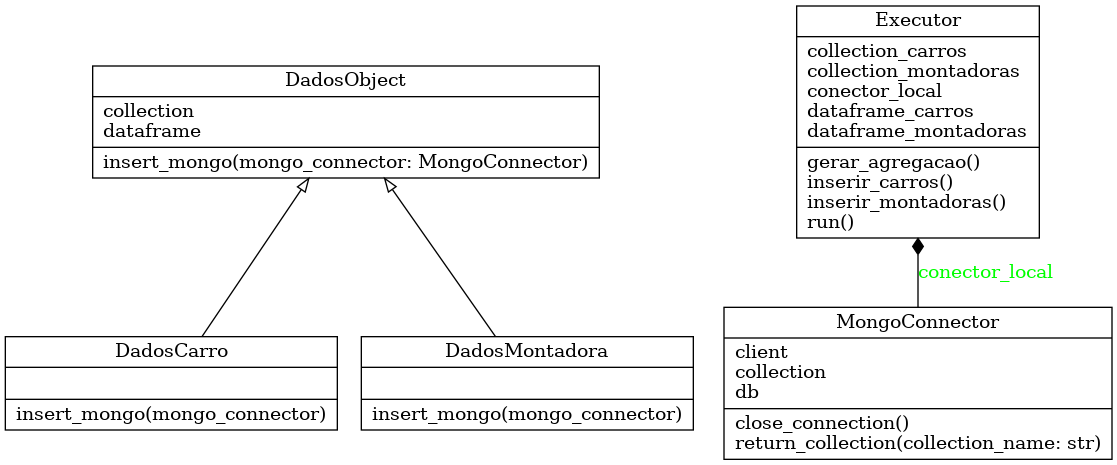
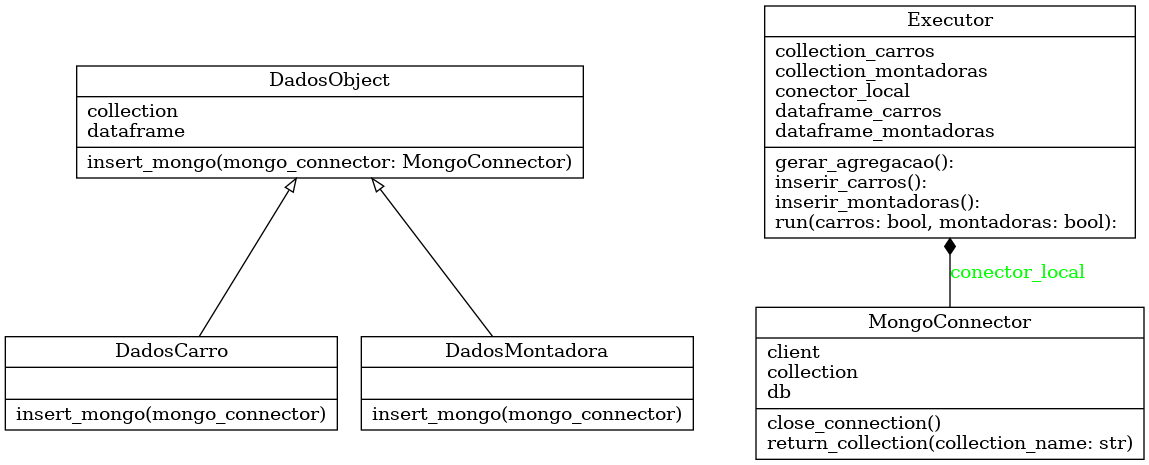
Add files via upload

diff --git a/agregacao_collection_país.js b/agregacao_collection_país.js
@@ -1,0 +1,1 @@
+[{"$lookup": {"from": "montadoras", "localField": "Montadora", "foreignField": "Montadora", "as": "Montadoras"}}, {"$unwind": "$Montadoras"}, {"$addFields": {"Pa\u00eds": "$Montadoras.Pa\u00eds"}}, {"$group": {"_id": "$Montadoras.Pa\u00eds", "Carros": {"$push": "$$ROOT"}}}]

diff --git a/agregacao_carros.js b/agregacao_carros.js
@@ -1,0 +1,1 @@
+[{"$lookup": {"from": "montadoras", "localField": "Montadora", "foreignField": "Montadora", "as": "Montadoras"}}, {"$unwind": "$Montadoras"}, {"$addFields": {"Pa\u00eds": "$Montadoras.Pa\u00eds"}}]

diff --git a/classes.py b/classes.py
@@ -36,14 +36,17 @@ class DadosMontadora(DadosObject):
         
 
 class Executor:
-    def __init__(self, string_connection, dataframe_carros, dataframe_montadoras) -> None:
+    def __init__(self, string_connection:str, dataframe_carros:pd.DataFrame, dataframe_montadoras:pd.DataFrame, clear:bool=False) -> None:
         self.dataframe_carros = dataframe_carros
         self.dataframe_montadoras = dataframe_montadoras
         self.conector_local = MongoConnector(string_connection)
         self.collection_carros = self.conector_local.return_collection('carros')
         self.collection_montadoras = self.conector_local.return_collection('montadoras')
-        self.collection_carros.drop()
-        self.collection_montadoras.drop()
+        if clear == True:
+            self.collection_carros.drop()
+            self.collection_montadoras.drop()
+        else:
+            pass
     def inserir_carros(self) -> None:
         carros = DadosCarro(dataframe=self.dataframe_carros)
         self.collection_carros = self.conector_local.return_collection('carros')
@@ -58,7 +61,7 @@ class Executor:
 
     def gerar_agregacao(self) -> None:
         # Realizar a agregação para fazer o relacionamento
-        pipeline = pipeline = [
+        pipeline_nova_collection = [
                             {"$lookup": {
                             "from": "montadoras",
                             "localField": "Montadora",
@@ -67,23 +70,44 @@ class Executor:
                             }},
                             {"$unwind": "$Montadoras"},
                             {"$addFields": {"País": "$Montadoras.País"}},
-                            
-                            
+                                        {"$group": {
+                            "_id": "$Montadoras.País",
+                            "Carros": {"$push": "$$ROOT"}
+                            }}
                             ]
-        result = self.collection_carros.aggregate(pipeline)
-
+        result = self.collection_carros.aggregate(pipeline_nova_collection)
         result_lista = list(result)
-        print(result_lista)
         # Converter o resultado para um DataFrame do Pandas
         result_df = pd.DataFrame(result_lista)
-        print(result_df)
+        self.conector_local.db.país.drop()
+        self.conector_local.db.país.insert_many(result_df.to_dict(orient="records"))
+        with open("agregacao_collection_país.js", "w") as f:
+            json.dump(pipeline_nova_collection, f)
+        
+        pipeline_carros = [
+                            {"$lookup": {
+                            "from": "montadoras",
+                            "localField": "Montadora",
+                            "foreignField": "Montadora",
+                            "as": "Montadoras"
+                            }},
+                            {"$unwind": "$Montadoras"},
+                            {"$addFields": {"País": "$Montadoras.País"}}
+
+                            ]
+        result = self.collection_carros.aggregate(pipeline_carros)
+        result_lista = list(result)
+        # Converter o resultado para um DataFrame do Pandas
+        result_df = pd.DataFrame(result_lista)
         self.conector_local.db.carros.drop()
         self.conector_local.db.carros.insert_many(result_df.to_dict(orient="records"))
-        with open("agregacao.js", "w") as f:
-            json.dump(pipeline, f)
-    
-    def run(self) -> None:
-        self.inserir_carros()
-        self.inserir_montadoras()
+        with open("agregacao_carros.js", "w") as f:
+            json.dump(pipeline_carros, f)
+            
+    def run(self, carros:bool=True, montadoras:bool=True) -> None:
+        if carros:
+            self.inserir_carros()
+        if montadoras:
+            self.inserir_montadoras()
         self.gerar_agregacao()
         self.conector_local.close_connection()

diff --git a/main.py b/main.py
@@ -42,4 +42,5 @@ dataframe_montadoras_input = pd.DataFrame({'Montadora':['Chevrolet',
 if __name__ == "__main__":
     Executor("mongodb://localhost:27017/",
              dataframe_carros_input,
-             dataframe_montadoras_input).run()
+             dataframe_montadoras_input,
+             clear=True).run()
